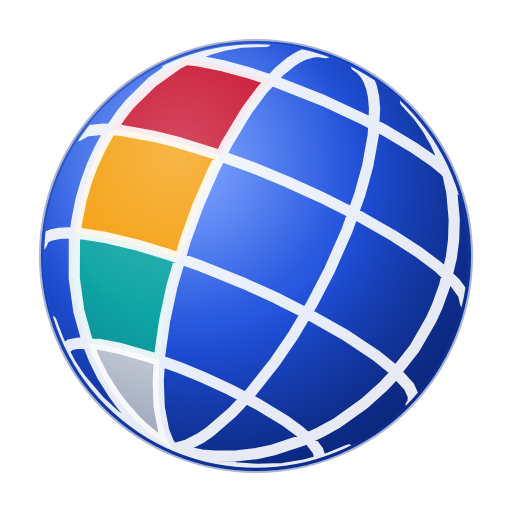
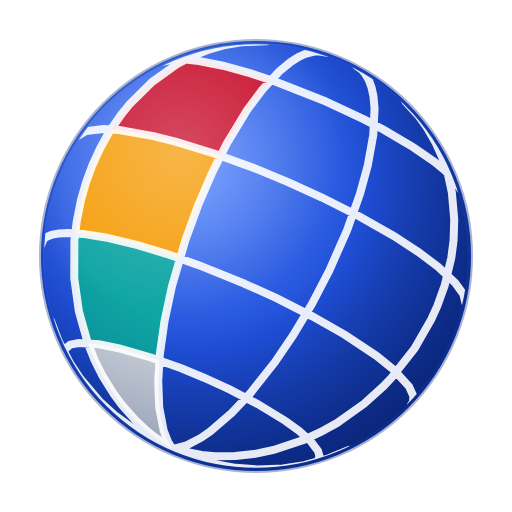
앱 '요약' 버튼 색상 변경 및 지구본 로고 위도 경도선 굵기 변경.

Changed region(s): [[0.0938, 0.0938, 0.9062, 0.9375], [0.5625, 0.0938, 0.625, 0.125], [0.4688, 0.0625, 0.5312, 0.0938]]

diff --git a/app/index.html b/app/index.html
@@ -311,7 +311,7 @@ function home(){
   h+='<div class="tools">';
   h+='<button class="ap" data-open="fc"><span class="ic" style="background:#0B2A86">전망</span><span class="lb">바뀐 전망</span>'+badge(fcChanged().length)+'</button>';
   h+='<button class="ap" data-open="lens"><span class="ic" style="background:#3B7A3B">틀</span><span class="lb">세계를 보는 틀</span></button>';
-  h+='<button class="ap" data-open="dg"><span class="ic" style="background:#2C3E66">요약</span><span class="lb">주간 정세 요약</span>'+(dgNew()?'<span class="bd">New</span>':'')+'</button>';
+  h+='<button class="ap" data-open="dg"><span class="ic" style="background:#B07800">요약</span><span class="lb">주간 정세 요약</span>'+(dgNew()?'<span class="bd">New</span>':'')+'</button>';
   h+='<button class="ap" data-open="ft"><span class="ic" style="background:#7A3E48">특집</span><span class="lb">특집</span>'+(ftNew()?'<span class="bd">New</span>':'')+'</button></div><a class="lk" style="display:block;text-align:center;margin:14px 0 4px" href="#msg">의견을 운영자에게 보내기 ›</a>';  /* 2026-11-19 대통령님 결재: 운영자에게 보내기 단추 → 특집(보내기는 화면 끝 줄로) */
   if(draft()&&'serviceWorker'in navigator&&'PushManager'in window&&'Notification'in window)h+='<section class="card nt" id="nt"></section>';
   h+=foot([]);
@@ -464,7 +464,7 @@ function lenses(){
   V.innerHTML=h;window.scrollTo(0,0);
 }
 function dgs(){
-  var D=DATA.digest,h=bar('요약','#2C3E66',(DATA.dgdate?md(DATA.dgdate)+' ':'')+'주간 정세 요약');  /* 2026-11-16 대통령님: 정세 브리핑처럼 날짜 표시 */
+  var D=DATA.digest,h=bar('요약','#B07800',(DATA.dgdate?md(DATA.dgdate)+' ':'')+'주간 정세 요약');  /* 2026-11-16 대통령님: 정세 브리핑처럼 날짜 표시 */
   var card=function(d){var a=app(d.a);return '<div class="card dg"><h2>'+e(a?a[1]:'')+'</h2><b>'+e(d.t)+'</b><p class="clamp">'+e(d.d)+'</p><button class="mo" data-more>더 보기</button></div>'};
   h+='<div class="qr"><div class="q">이번 주 세계는 어떻게 흘러왔나</div>'+lsnBtn()+'</div><p class="lead">이번 주 정세 요약은 '+D.length+'개 사안입니다. 앞의 3개부터 보고드립니다.</p>'+D.slice(0,3).map(card).join('')+(D.length>3?'<button class="more2" data-fold>'+(D.length-3)+'개 사안 더 보기 ▾</button><div class="fold" hidden>'+D.slice(3).map(card).join('')+'</div>':'');
   h+=nextQ(D.slice(0,2).map(function(d){var a=app(d.a);return a&&(DATA.boards||{})[d.a]?[a[1]+' · 이 흐름으로 판은 어디로 기울었나?','#i/'+d.a+'/pan']:null}),'dg');

diff --git a/app/pwa/index.html b/app/pwa/index.html
@@ -311,7 +311,7 @@ function home(){
   h+='<div class="tools">';
   h+='<button class="ap" data-open="fc"><span class="ic" style="background:#0B2A86">전망</span><span class="lb">바뀐 전망</span>'+badge(fcChanged().length)+'</button>';
   h+='<button class="ap" data-open="lens"><span class="ic" style="background:#3B7A3B">틀</span><span class="lb">세계를 보는 틀</span></button>';
-  h+='<button class="ap" data-open="dg"><span class="ic" style="background:#2C3E66">요약</span><span class="lb">주간 정세 요약</span>'+(dgNew()?'<span class="bd">New</span>':'')+'</button>';
+  h+='<button class="ap" data-open="dg"><span class="ic" style="background:#B07800">요약</span><span class="lb">주간 정세 요약</span>'+(dgNew()?'<span class="bd">New</span>':'')+'</button>';
   h+='<button class="ap" data-open="ft"><span class="ic" style="background:#7A3E48">특집</span><span class="lb">특집</span>'+(ftNew()?'<span class="bd">New</span>':'')+'</button></div><a class="lk" style="display:block;text-align:center;margin:14px 0 4px" href="#msg">의견을 운영자에게 보내기 ›</a>';  /* 2026-11-19 대통령님 결재: 운영자에게 보내기 단추 → 특집(보내기는 화면 끝 줄로) */
   if(draft()&&'serviceWorker'in navigator&&'PushManager'in window&&'Notification'in window)h+='<section class="card nt" id="nt"></section>';
   h+=foot([]);
@@ -464,7 +464,7 @@ function lenses(){
   V.innerHTML=h;window.scrollTo(0,0);
 }
 function dgs(){
-  var D=DATA.digest,h=bar('요약','#2C3E66',(DATA.dgdate?md(DATA.dgdate)+' ':'')+'주간 정세 요약');  /* 2026-11-16 대통령님: 정세 브리핑처럼 날짜 표시 */
+  var D=DATA.digest,h=bar('요약','#B07800',(DATA.dgdate?md(DATA.dgdate)+' ':'')+'주간 정세 요약');  /* 2026-11-16 대통령님: 정세 브리핑처럼 날짜 표시 */
   var card=function(d){var a=app(d.a);return '<div class="card dg"><h2>'+e(a?a[1]:'')+'</h2><b>'+e(d.t)+'</b><p class="clamp">'+e(d.d)+'</p><button class="mo" data-more>더 보기</button></div>'};
   h+='<div class="qr"><div class="q">이번 주 세계는 어떻게 흘러왔나</div>'+lsnBtn()+'</div><p class="lead">이번 주 정세 요약은 '+D.length+'개 사안입니다. 앞의 3개부터 보고드립니다.</p>'+D.slice(0,3).map(card).join('')+(D.length>3?'<button class="more2" data-fold>'+(D.length-3)+'개 사안 더 보기 ▾</button><div class="fold" hidden>'+D.slice(3).map(card).join('')+'</div>':'');
   h+=nextQ(D.slice(0,2).map(function(d){var a=app(d.a);return a&&(DATA.boards||{})[d.a]?[a[1]+' · 이 흐름으로 판은 어디로 기울었나?','#i/'+d.a+'/pan']:null}),'dg');

diff --git a/en/app/index.html b/en/app/index.html
@@ -307,7 +307,7 @@ function home(){
   h+='<div class="tools">';
   h+='<button class="ap" data-open="fc"><span class="ic one" style="background:#0B2A86">%</span><span class="lb">Changed forecasts</span>'+badge(fcChanged().length)+'</button>';
   h+='<button class="ap" data-open="lens"><span class="ic" style="background:#3B7A3B">Lens</span><span class="lb">Lenses on the world</span></button>';
-  h+='<button class="ap" data-open="dg"><span class="ic" style="background:#2C3E66">Week</span><span class="lb">Weekly summary</span>'+(dgNew()?'<span class="bd">New</span>':'')+'</button>';
+  h+='<button class="ap" data-open="dg"><span class="ic" style="background:#B07800">Week</span><span class="lb">Weekly summary</span>'+(dgNew()?'<span class="bd">New</span>':'')+'</button>';
   h+='<button class="ap" data-open="ft"><span class="ic" style="background:#7A3E48">Read</span><span class="lb">Features</span>'+(ftNew()?'<span class="bd">New</span>':'')+'</button></div><a class="lk" style="display:block;text-align:center;margin:14px 0 4px" href="#msg">Send feedback ›</a>';  
   if(draft()&&'serviceWorker'in navigator&&'PushManager'in window&&'Notification'in window)h+='<section class="card nt" id="nt"></section>';
   h+=foot([]);
@@ -457,7 +457,7 @@ function lenses(){
   V.innerHTML=h;window.scrollTo(0,0);
 }
 function dgs(){
-  var D=DATA.digest,h=bar('Week','#2C3E66','Weekly summary'+(DATA.dgdate?', '+md(DATA.dgdate):''));  
+  var D=DATA.digest,h=bar('Week','#B07800','Weekly summary'+(DATA.dgdate?', '+md(DATA.dgdate):''));  
   var card=function(d){var a=app(d.a);return '<div class="card dg"><h2>'+e(a?a[1]:'')+'</h2><b>'+e(d.t)+'</b><p class="clamp">'+e(d.d)+'</p><button class="mo" data-more>More</button></div>'};
   h+='<div class="qr"><div class="q">How the world moved this week</div>'+lsnBtn()+'</div><p class="lead">This week’s summary covers '+D.length+' issues. Here are the first three.</p>'+D.slice(0,3).map(card).join('')+(D.length>3?'<button class="more2" data-fold>'+(D.length-3)+' more issues ▾</button><div class="fold" hidden>'+D.slice(3).map(card).join('')+'</div>':'');
   h+=nextQ(D.slice(0,2).map(function(d){var a=app(d.a);return a&&(DATA.boards||{})[d.a]?[a[1]+' · where did this push the balance?','#i/'+d.a+'/pan']:null}),'dg');

diff --git a/en/app/pwa/index.html b/en/app/pwa/index.html
@@ -307,7 +307,7 @@ function home(){
   h+='<div class="tools">';
   h+='<button class="ap" data-open="fc"><span class="ic one" style="background:#0B2A86">%</span><span class="lb">Changed forecasts</span>'+badge(fcChanged().length)+'</button>';
   h+='<button class="ap" data-open="lens"><span class="ic" style="background:#3B7A3B">Lens</span><span class="lb">Lenses on the world</span></button>';
-  h+='<button class="ap" data-open="dg"><span class="ic" style="background:#2C3E66">Week</span><span class="lb">Weekly summary</span>'+(dgNew()?'<span class="bd">New</span>':'')+'</button>';
+  h+='<button class="ap" data-open="dg"><span class="ic" style="background:#B07800">Week</span><span class="lb">Weekly summary</span>'+(dgNew()?'<span class="bd">New</span>':'')+'</button>';
   h+='<button class="ap" data-open="ft"><span class="ic" style="background:#7A3E48">Read</span><span class="lb">Features</span>'+(ftNew()?'<span class="bd">New</span>':'')+'</button></div><a class="lk" style="display:block;text-align:center;margin:14px 0 4px" href="#msg">Send feedback ›</a>';  
   if(draft()&&'serviceWorker'in navigator&&'PushManager'in window&&'Notification'in window)h+='<section class="card nt" id="nt"></section>';
   h+=foot([]);
@@ -457,7 +457,7 @@ function lenses(){
   V.innerHTML=h;window.scrollTo(0,0);
 }
 function dgs(){
-  var D=DATA.digest,h=bar('Week','#2C3E66','Weekly summary'+(DATA.dgdate?', '+md(DATA.dgdate):''));  
+  var D=DATA.digest,h=bar('Week','#B07800','Weekly summary'+(DATA.dgdate?', '+md(DATA.dgdate):''));  
   var card=function(d){var a=app(d.a);return '<div class="card dg"><h2>'+e(a?a[1]:'')+'</h2><b>'+e(d.t)+'</b><p class="clamp">'+e(d.d)+'</p><button class="mo" data-more>More</button></div>'};
   h+='<div class="qr"><div class="q">How the world moved this week</div>'+lsnBtn()+'</div><p class="lead">This week’s summary covers '+D.length+' issues. Here are the first three.</p>'+D.slice(0,3).map(card).join('')+(D.length>3?'<button class="more2" data-fold>'+(D.length-3)+' more issues ▾</button><div class="fold" hidden>'+D.slice(3).map(card).join('')+'</div>':'');
   h+=nextQ(D.slice(0,2).map(function(d){var a=app(d.a);return a&&(DATA.boards||{})[d.a]?[a[1]+' · where did this push the balance?','#i/'+d.a+'/pan']:null}),'dg');
